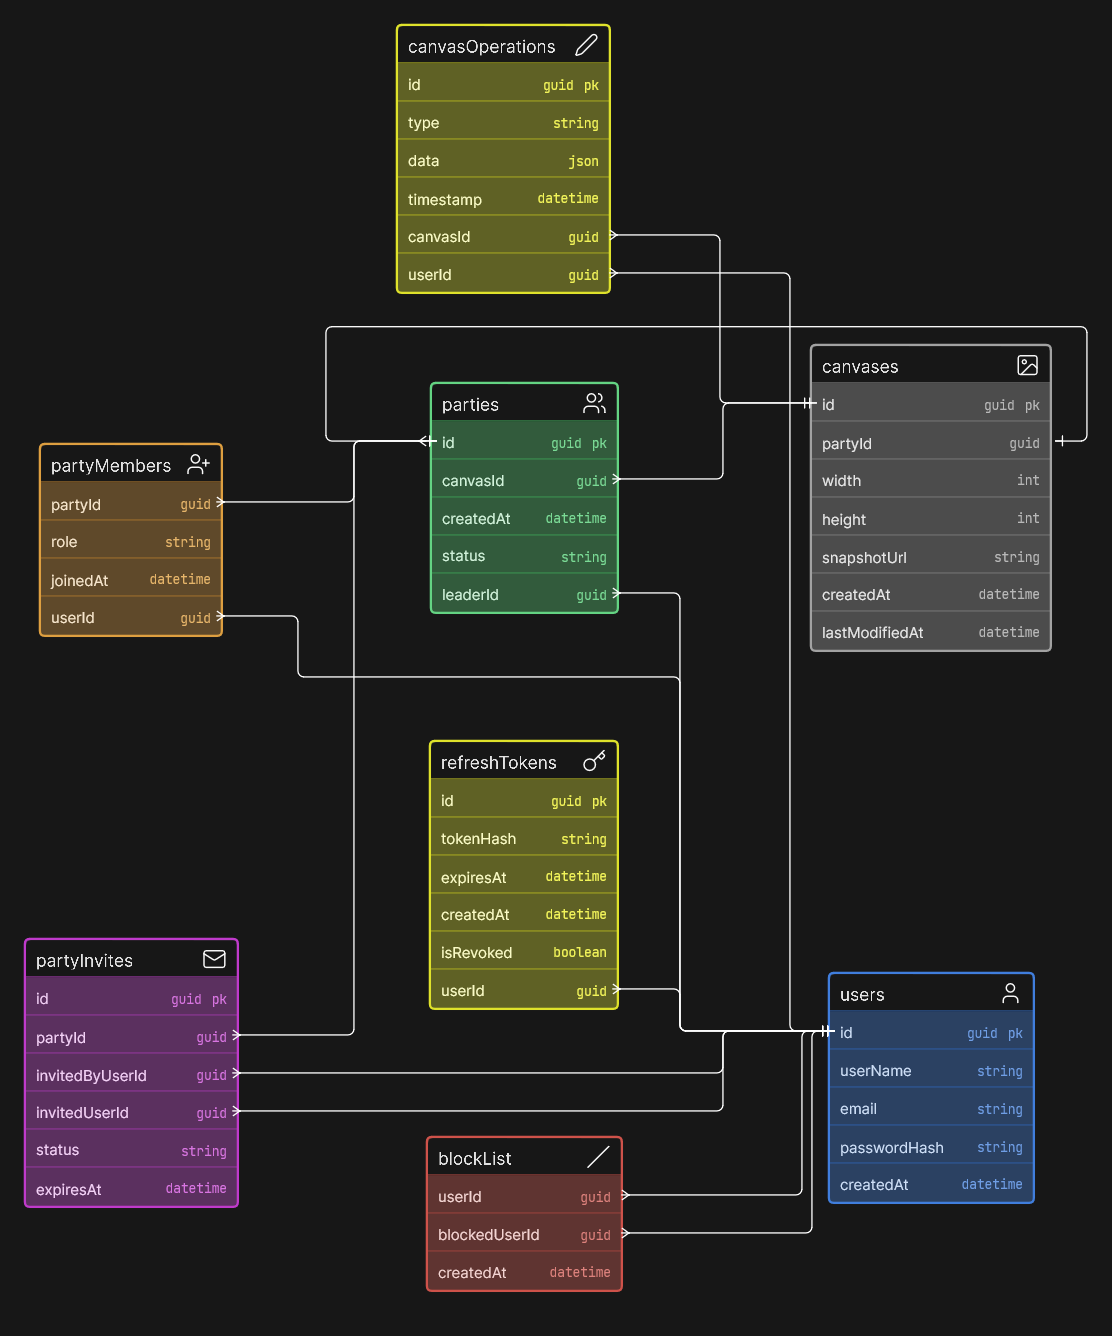
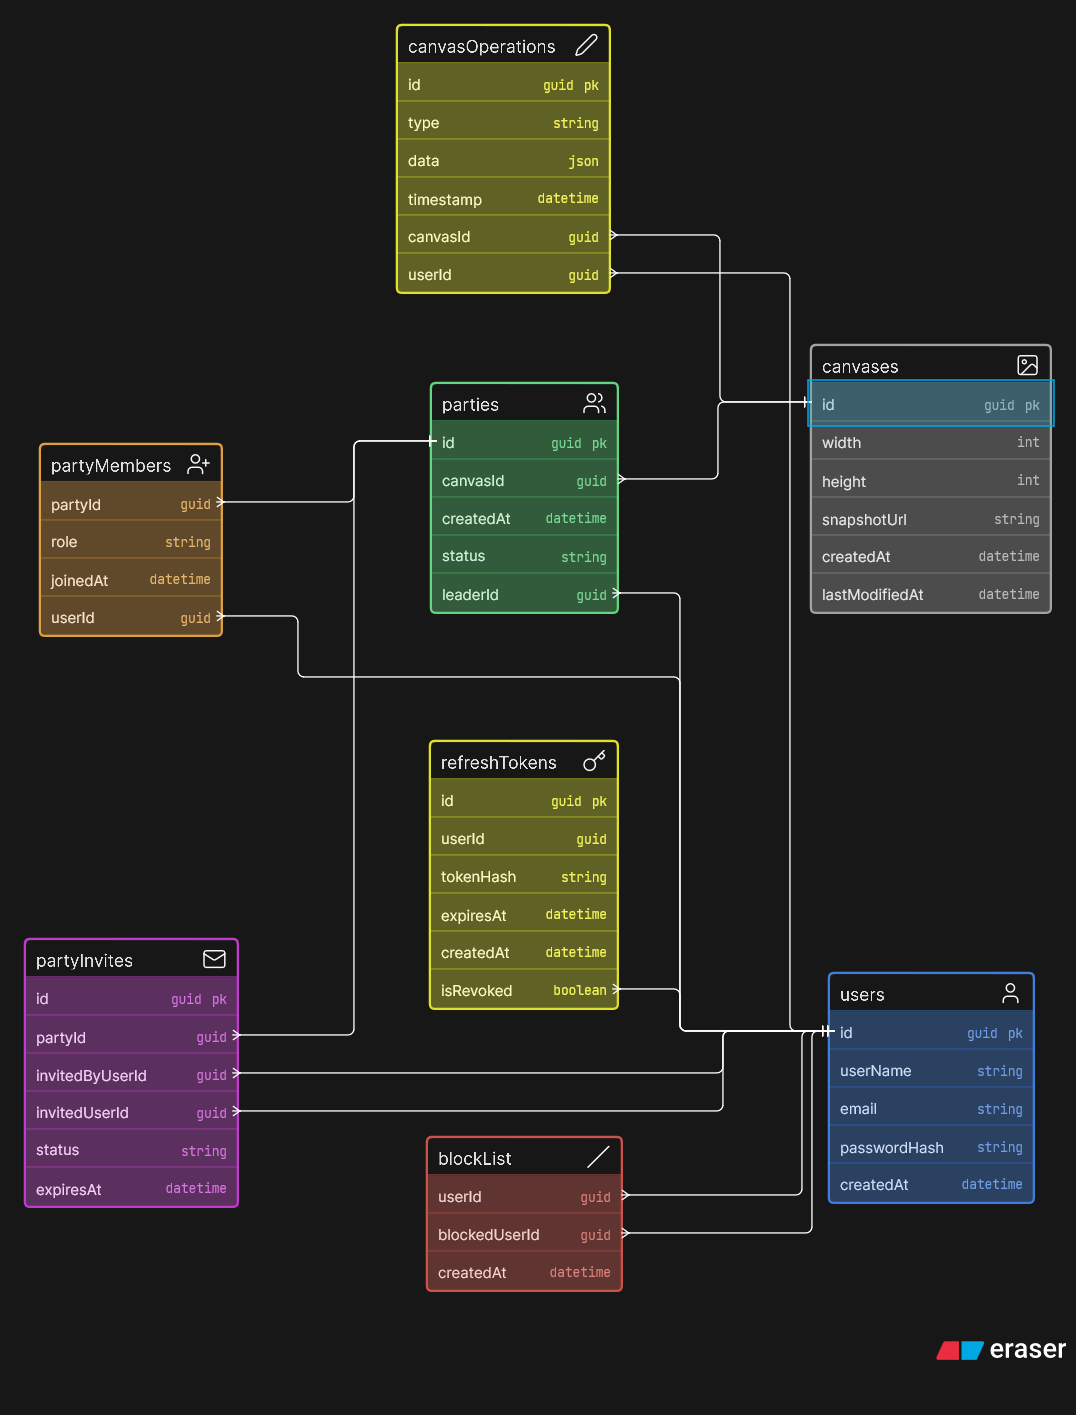
feat(wip): Database relational models for Canvases, and cardinality relationships + edit db schema(drop Canvas.PartyId)

diff --git a/server/Inkboard.API/Routes/PartyEndpoint.cs b/server/Inkboard.API/Routes/PartyEndpoint.cs
@@ -25,7 +25,8 @@ namespace Inkboard.API.Routes
                     {
                         // pulling out a userId,
                         var leaderId = user.GetUserId();
-                        if(leaderId == Guid.Empty) return Results.Unauthorized();
+                        if (leaderId == Guid.Empty)
+                            return Results.Unauthorized();
 
                         var party = await partyService.CreatePartyAsync(leaderId);
 
@@ -42,7 +43,8 @@ namespace Inkboard.API.Routes
                     {
                         // pulling out a userId,
                         var userId = user.GetUserId();
-                        if(userId == Guid.Empty) return Results.Unauthorized();
+                        if (userId == Guid.Empty)
+                            return Results.Unauthorized();
 
                         try
                         {

diff --git a/server/Inkboard.Domain/Models/Canvas.cs b/server/Inkboard.Domain/Models/Canvas.cs
@@ -1,0 +1,30 @@
+using System.ComponentModel.DataAnnotations;
+using System.ComponentModel.DataAnnotations.Schema;
+
+namespace Inkboard.Domain.Models;
+
+[Table("Canvases")]
+public class Canvas
+{
+    [Key]
+    public Guid Id { get; set; } = Guid.NewGuid();
+
+    public int Width { get; set; }
+
+    public int Height { get; set; }
+
+    public string SnapshotURL { get; set; }
+
+    public DateTime CreatedAt { get; set; } = DateTime.UtcNow;
+
+    public DateTime LastModifiedAt { get; set; }
+
+    // nav props
+
+    /// <summary>
+    /// Each active Party has an active Canvas mapped to it
+    /// 1-to-1 relationship, upon Party being dissolved, Canvas closes, Canvas.PartyId should be set to null
+    /// and when a user opens it back up, Canvas.PartyId should be set to the new PartyId
+    /// </summary>
+    // public Party Party { get; set; } = null!;
+}

diff --git a/server/Inkboard.Infra/Db/DbContext.cs b/server/Inkboard.Infra/Db/DbContext.cs
@@ -80,5 +80,13 @@ public class AppDbContext : DbContext
             .WithMany()
             .HasForeignKey(bl => bl.BlockedUserId)
             .OnDelete(DeleteBehavior.Restrict);
+
+        // Party.    
+        modelBuilder
+            .Entity<Party>()
+            .HasOne(p => p.Canvas)
+            .WithMany()
+            .HasForeignKey(p => p.CanvasId)
+            .OnDelete(DeleteBehavior.Restrict);
     }
 }

diff --git a/server/Inkboard.Domain/Models/Party.cs b/server/Inkboard.Domain/Models/Party.cs
@@ -19,4 +19,10 @@ public class Party
 
     // Navigation props
     public User Leader { get; set; } = null!;
+
+    /// <summary>
+    /// Each active party has its Canvas, if a user closes and opens multiple parties all 
+    /// on the same Canvas, this forms an N-to-1 relationship
+    /// </summary>
+    public Canvas Canvas { get; set; } = null!;
 }

diff --git a/docs/ARCHITECTURE.md b/docs/ARCHITECTURE.md
@@ -121,7 +121,7 @@ Fields: UserId (FK), BlockedUserId (FK), CreatedAt
 
 **Canvases** 
 Represents a shared drawing canvas.
-Fields: Id, PartyId (FK), Width, Height, SnapshotUrl, CreatedAt, LastModifiedAt
+Fields: Id, Width, Height, SnapshotUrl, CreatedAt, LastModifiedAt
 
 **CanvasOperations** 
 Append-only log of every drawing operation during a session.
